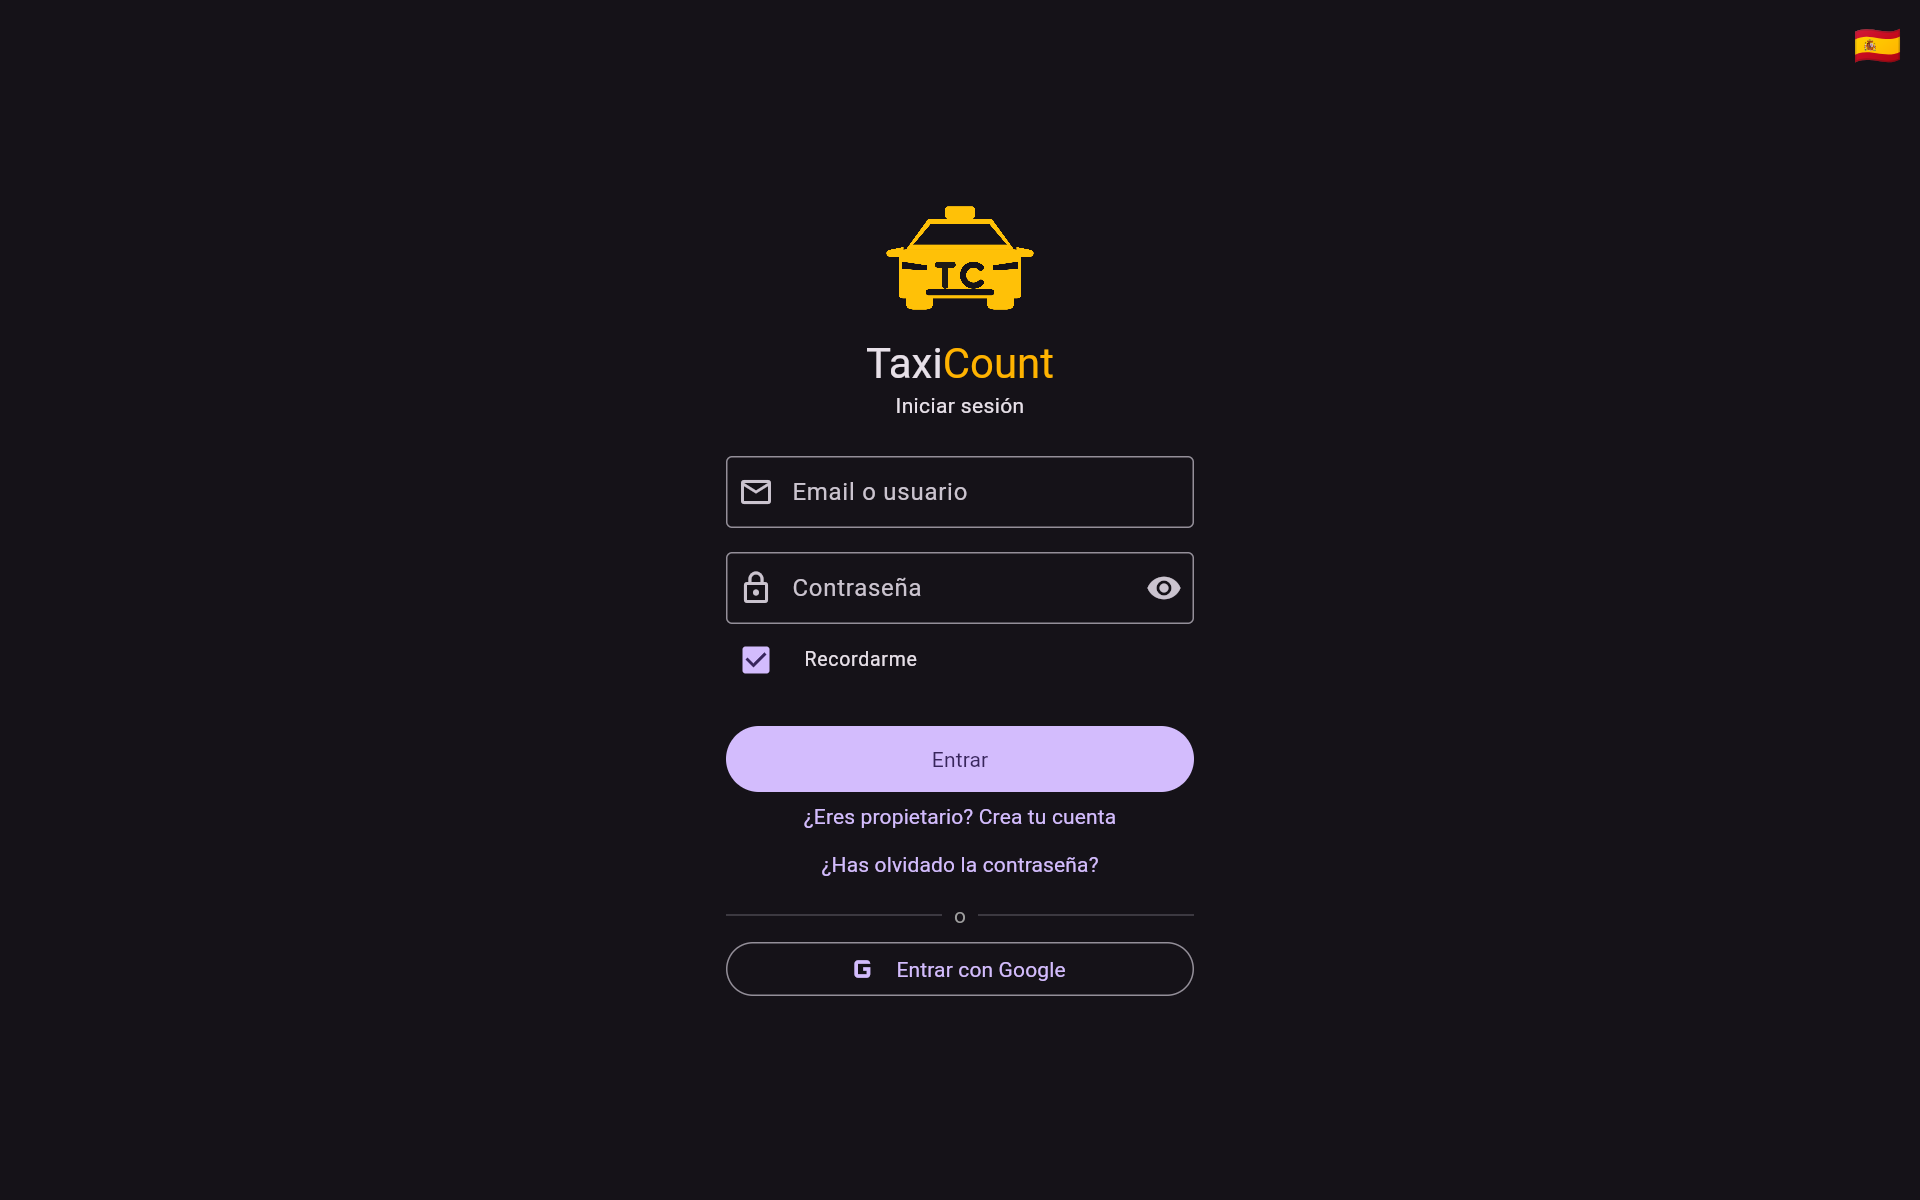
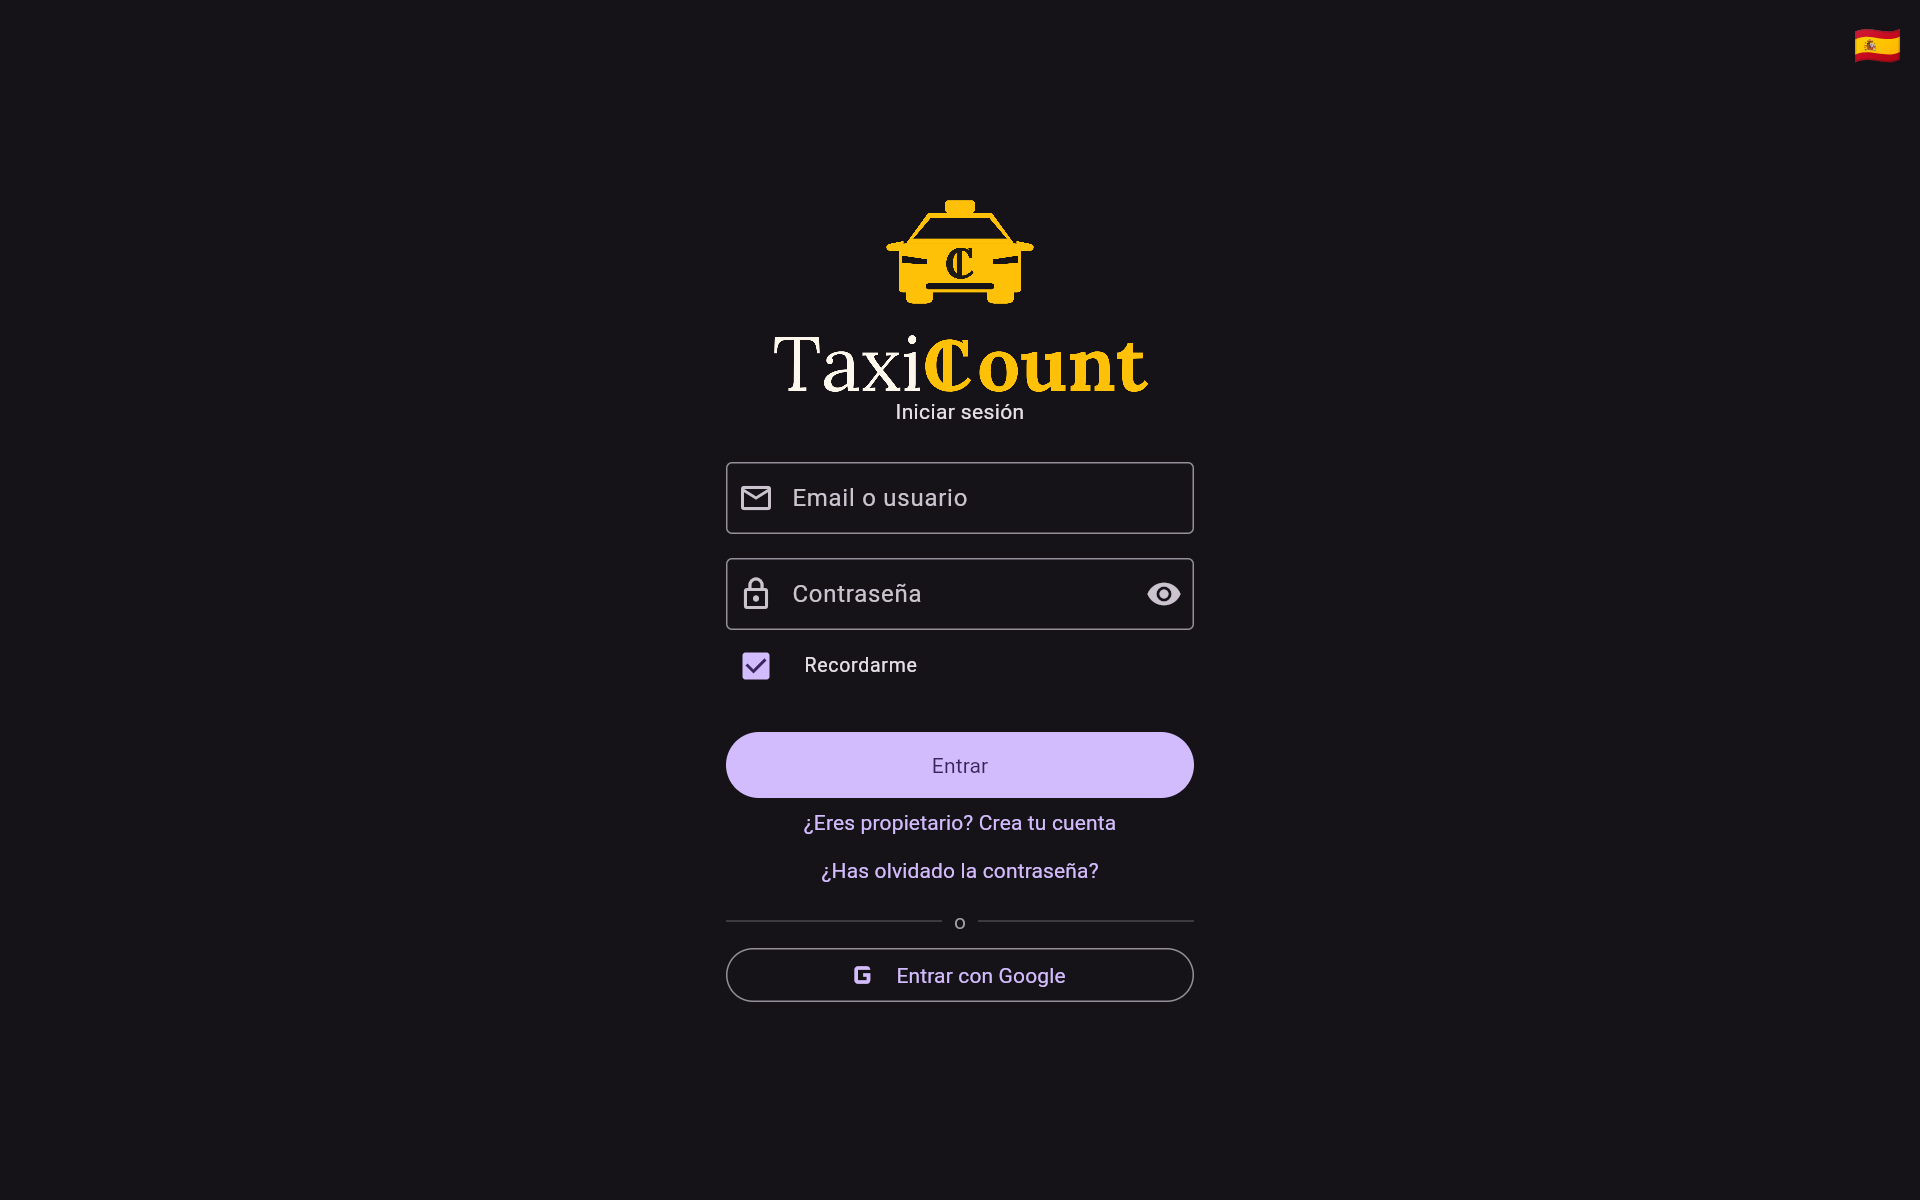
feat(branding): la marca nueva entra en la app y en la web
- assets/brand/: isotipo con la ligadura CT, y el logotipo como imagen en dos
  versiones (clara y para fondo oscuro).
- brandLogotipo(context) elige version segun el brillo del tema: "Taxi" va en
  negro calido y sobre el fondo oscuro del panel admin desapareceria. Se usa
  en el hero del login; para barras y texto corrido siguen los ayudantes de
  texto, que no deben ser imagenes.
- brandAmber pasa de #FFB300 a #FFC107: un solo ambar para el coche y para
  "Count", como el resto de la identidad.
- Iconos de Android regenerados; el fondo del adaptativo pasa de ambar a crema
  porque el icono ya no invierte colores.
- Los seis iconos web rehechos.

flutter analyze limpio; cliente y admin compilan. Verificado en los dos temas:
el panel oscuro coge la variante crema automaticamente.

Changed region(s): [[0.375, 0.1542, 0.625, 0.8325]]

diff --git a/frontend/lib/util/brand.dart b/frontend/lib/util/brand.dart
@@ -1,15 +1,26 @@
 import 'package:flutter/material.dart';
 
-/// Ámbar del segmento "Count" del logotipo (algo más profundo que el del
-/// isotipo, para que contraste sobre fondo claro).
-const brandAmber = Color(0xFFFFB300);
+/// Ámbar de la marca. Es **el mismo** que el de la carrocería del isotipo: el
+/// símbolo y la palabra van siempre del mismo color.
+const brandAmber = Color(0xFFFFC107);
 
-/// El nombre con el corte de color de la marca registrada: "Taxi" hereda el
-/// color de texto del tema (así funciona igual sobre el crema del cliente que
-/// sobre el oscuro del panel de admin) y "Count" va en ámbar.
-/// Pinta una frase que conté "TaxiCount" amb el tall de color de la marca.
-/// Serveix per a textos traduïts ("Benvingut a TaxiCount"): el nom és invariable
-/// en els tres idiomes, així que n'hi ha prou de partir per ell.
+/// El logotipo de verdad, como imagen: el nombre compuesto en Lora con la
+/// ligadura CT haciendo de C. Se usa donde la marca se muestra como marca
+/// (portadas), no donde el nombre es texto corrido.
+///
+/// Elige la versión clara u oscura según el tema, porque "Taxi" va en negro
+/// cálido y sobre el fondo oscuro del panel de admin desaparecería.
+Widget brandLogotipo(BuildContext context, {double height = 40}) {
+  final oscuro = Theme.of(context).brightness == Brightness.dark;
+  return Image.asset(
+    oscuro ? 'assets/brand/logotipo-oscuro.png' : 'assets/brand/logotipo.png',
+    height: height,
+  );
+}
+
+/// Pinta una frase que contiene "TaxiCount" con el corte de color de la marca.
+/// Sirve para textos traducidos ("Bienvenido a TaxiCount"): el nombre es
+/// invariable en los tres idiomas, así que basta con partir por él.
 Widget brandInText(BuildContext context, String text, {TextStyle? style}) {
   const brand = 'TaxiCount';
   final base = style ?? Theme.of(context).textTheme.headlineSmall;
@@ -27,13 +38,15 @@ Widget brandInText(BuildContext context, String text, {TextStyle? style}) {
   );
 }
 
-/// El mateix logotip per a la barra superior, agafant l'estil de títol del tema
-/// (si no, hereta headlineMedium i surt desproporcionat dins l'AppBar).
+/// El nombre para la barra superior, con el estilo de título del tema (si no,
+/// hereda headlineMedium y sale desproporcionado dentro del AppBar).
 Widget brandAppBarTitle(BuildContext context) {
   final t = Theme.of(context);
   return brandWordmark(context, style: t.appBarTheme.titleTextStyle ?? t.textTheme.titleLarge);
 }
 
+/// El nombre como texto, con el corte de color. Para barras y rótulos, donde
+/// una imagen no encajaría con el resto de la tipografía de la interfaz.
 Widget brandWordmark(BuildContext context, {TextStyle? style}) {
   final base = style ?? Theme.of(context).textTheme.headlineMedium;
   return Text.rich(

diff --git a/frontend/lib/screens/login_screen.dart b/frontend/lib/screens/login_screen.dart
@@ -297,8 +297,8 @@ class _LoginScreenState extends State<LoginScreen> {
                 crossAxisAlignment: CrossAxisAlignment.stretch,
                 children: [
                   Image.asset('assets/brand/isotipo.png', height: 72),
-                  const SizedBox(height: 16),
-                  brandWordmark(context),
+                  const SizedBox(height: 18),
+                  brandLogotipo(context, height: 42),
                   Text(
                     _isSignUp ? l.t('login_subtitle_signup') : l.t('login_subtitle_signin'),
                     textAlign: TextAlign.center,

diff --git a/CLAUDE.md b/CLAUDE.md
@@ -93,6 +93,12 @@ go-live #4. Discutir abans de cada extracció; `node --check` + `npm test` verds
   versions BN i fons fosc; veure `brand/README.md`). A l'app: `assets/brand/isotipo.png`
   (declarat a `pubspec.yaml`) s'usa allà on el taxi fa de **logotip**: `login_screen`,
   `driver_home_screen` i el primer slide de `tutorial_gate`.
+  **La marca definitiva (2026-07-31)** és el cotxe amb la **lligadura CT del titular** a la
+  graella, i el nom compost en **Lora** vectoritzada: "Taxi" en fina, la lligadura fent de C,
+  i "ount" en negreta. Un sol ambre `#FFC107` per al cotxe i per a "Count" — mai dos.
+  `brandLogotipo(context)` pinta el logotip **com a imatge** (`assets/brand/logotipo.png`,
+  o `logotipo-oscuro.png` si el tema és fosc, perquè "Taxi" en negre desapareixeria);
+  s'usa al hero del login. Per a barres i text corrent segueixen els ajudants de text.
   `util/brand.dart` té tres ajudants: `brandWordmark(context)` (logotip solt),
   `brandAppBarTitle(context)` (el mateix amb l'estil de títol de l'AppBar; si no li passes
   l'estil hereta headlineMedium i surt desproporcionat) i `brandInText(context, frase)`
